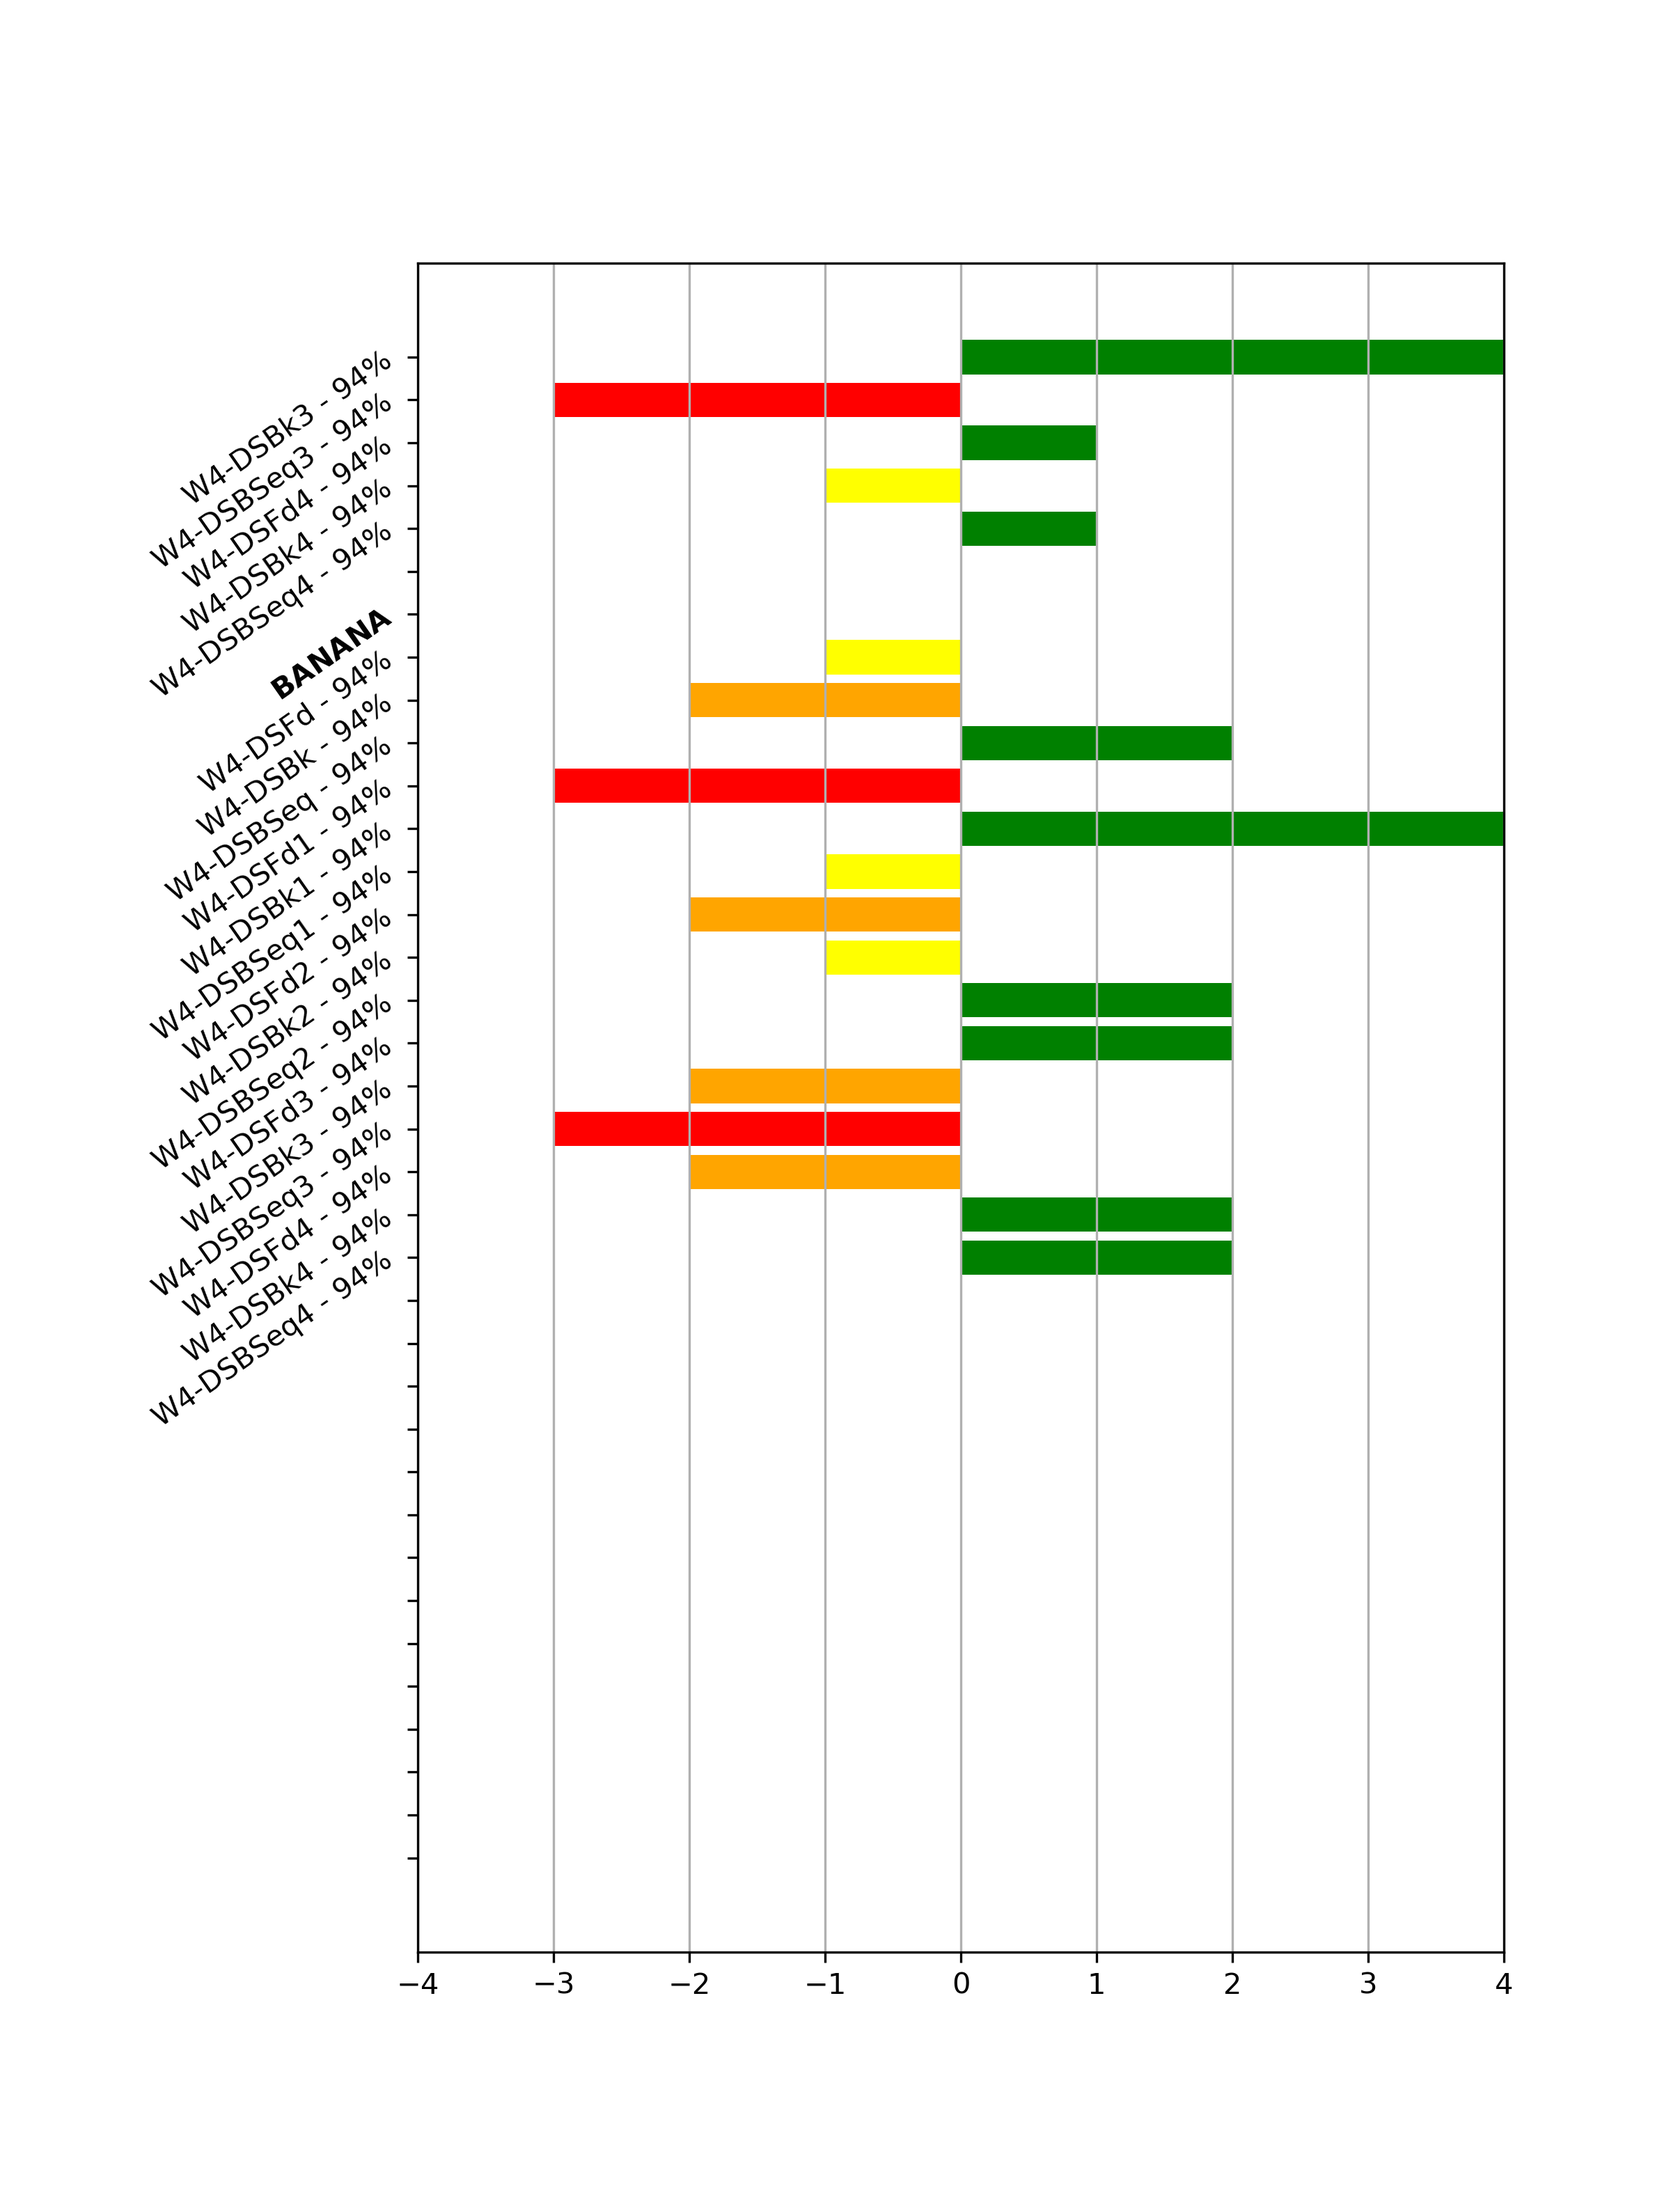
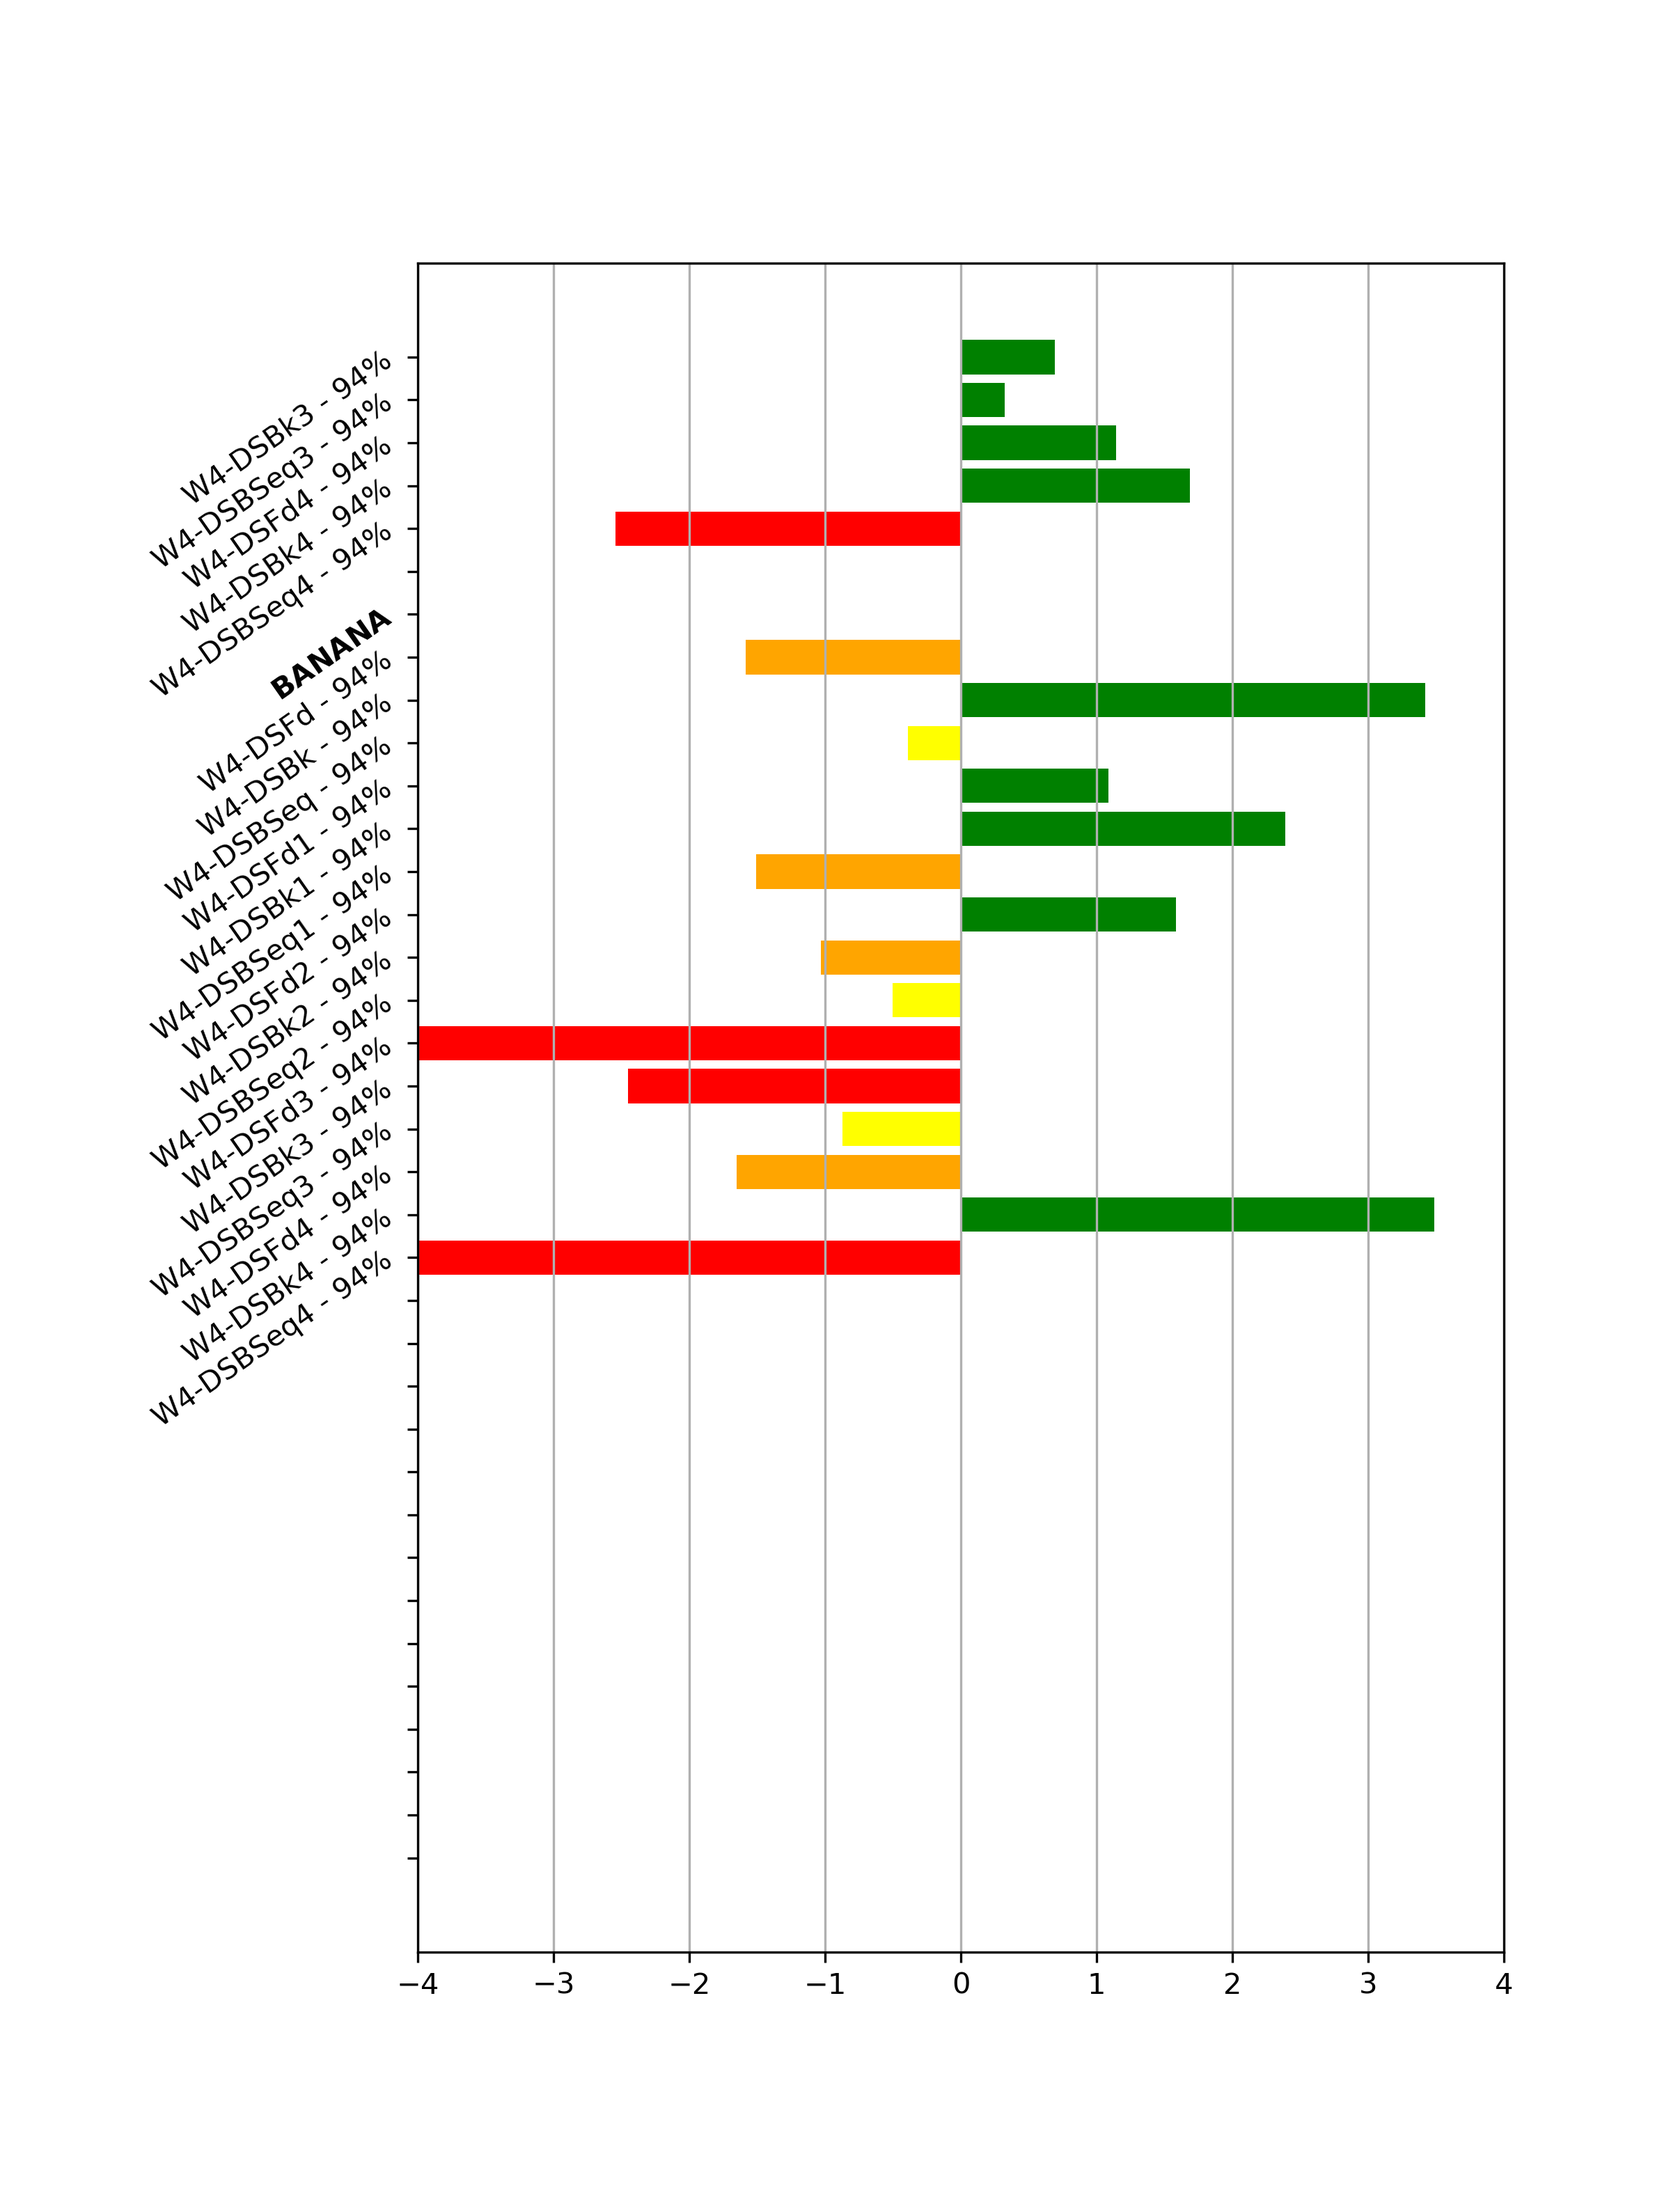
Pull Request

Changed region(s): [[0.25, 0.28, 0.9062, 0.5911], [0.3125, 0.1556, 0.9062, 0.2489]]

diff --git a/Scripting/chartGen.py b/Scripting/chartGen.py
@@ -22,6 +22,8 @@ _TestGroups = []
 _decodedJson = dict()
 _localDir = ""
 
+_jsonPath = ""
+
 _count = 0.0
 _totalDotsH = 0.0
 
@@ -30,10 +32,14 @@ SHOWCHART = False
 BOGUSVALS = True
 FIRSTPAGE = True
 DONE = False
+AUTOPATH = False
 PAGECOUNT = 1
 
 def main():
 	global DONE 
+	global _jsonPath
+
+	_jsonPath = sys.argv[1]
 
 	print(Fore.GREEN + "Generating Table")
 	ingestDataFile()
@@ -49,12 +55,16 @@ def ingestDataFile():
 	global DEBUG
 	global _decodedJson
 	global _localDir
+	global AUTOPATH
 
 	_localDir = os.getcwd()
 	if DEBUG:
 		print("Local Directory is: " + _localDir)
 
-	_dataFilePath = _localDir + "\dataFile.json"
+	if AUTOPATH: 
+		_dataFilePath = _localDir + "\dataFile.json"
+	else: 
+		_dataFilePath = _jsonPath
 	_dataFile = open(_dataFilePath, "r") #read only access of the data file
 
 	_rawDataJson = _dataFile.read()
@@ -98,7 +108,7 @@ def generateChart():
 			_testName = _testList[index]
 			_testVal = _decodedJson[_cat][_testList[index]]
 			if BOGUSVALS:
-				_testVal = random.randint(-4, 4)
+				_testVal = random.uniform(-5,5)
 			_xList.append(_testName)
 			_yList.append(_testVal)
 			_colors.append(getColor(_testVal))
@@ -184,7 +194,7 @@ def concatImages():
 		_table = Image.open(_localDir + "\\graph" + str(_page) + ".png")
 
 		_dest = Image.new('RGB', (_table.width, _table.height + _curve.height), (255, 255, 255))
-		_dest.paste(_table, (0, _curve.height - 500))
+		_dest.paste(_table, (0, _curve.height - 470))
 		_dest.paste(_curve, (186, 0))
 
 		_dest = _dest.crop((0, 0, _dest.width, 300 * 10))
